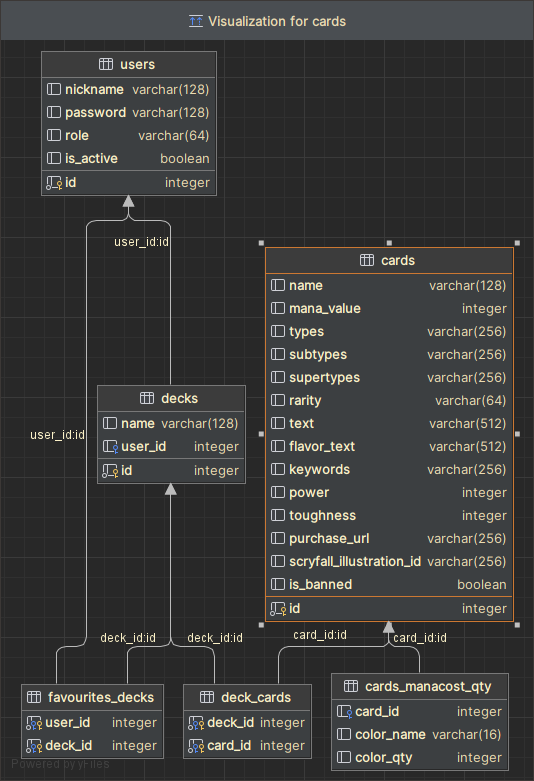
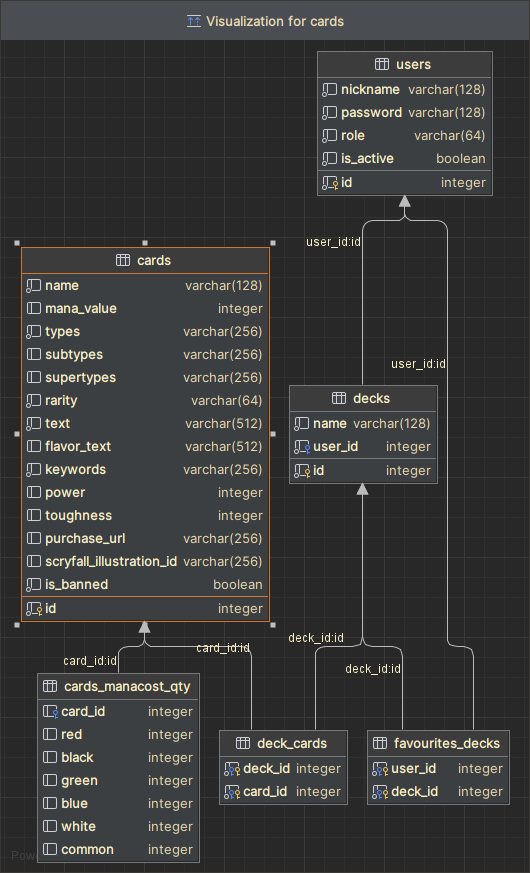
Manacost class change NOT NULL add to script

diff --git a/service/src/main/java/com/cloakyLoki/entity/Manacost.java b/service/src/main/java/com/cloakyLoki/entity/Manacost.java
@@ -1,15 +1,11 @@
 package com.cloakyLoki.entity;
 
-import com.cloakyLoki.entity.enumerated.ColorIndicator;
 import lombok.AllArgsConstructor;
 import lombok.Builder;
 import lombok.Data;
 import lombok.NoArgsConstructor;
 
-import javax.persistence.Column;
 import javax.persistence.Entity;
-import javax.persistence.EnumType;
-import javax.persistence.Enumerated;
 import javax.persistence.Id;
 import javax.persistence.Table;
 
@@ -22,13 +18,11 @@ import javax.persistence.Table;
 public class Manacost {
 
     @Id
-    @Column(name = "card_id")
-    private Integer cardId;
-
-    @Column(name = "color_name")
-    @Enumerated(EnumType.STRING)
-    private ColorIndicator colorName;
-
-    @Column(name = "color_qty")
-    private Integer colorQty;
+    private Integer id;
+    private Integer red;
+    private Integer black;
+    private Integer green;
+    private Integer blue;
+    private Integer white;
+    private Integer common;
 }
